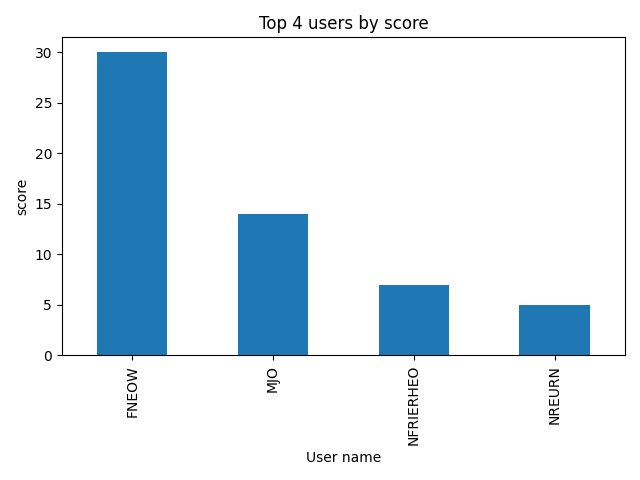
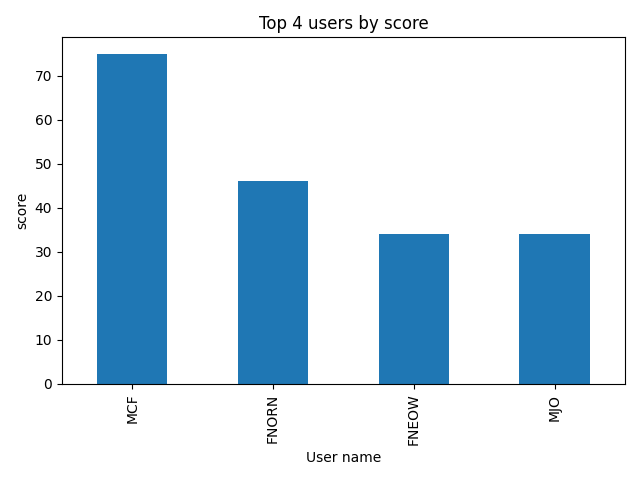
add automated tests, version 0.4.0 also make it so matplotlib gui doesn't show up when saving file fixed bug with num_top_users in display.py

diff --git a/tests/test.py b/tests/test.py
@@ -1,0 +1,167 @@
+'''
+run automated unit tests of turtlestats
+'''
+import time
+import os
+import sqlite3
+import unittest
+
+import pyautogui as pyag
+
+from turtlestats.display import best_score_bar, top_users_bar, FIRST_UNIX_DAY
+
+CODE_DIR = os.path.dirname(__file__)
+TEST_GAME_STARTER = os.path.join(CODE_DIR, "start_test_game.bat")
+STATS_DBNAME = os.path.join(CODE_DIR, '.turtlestats', 'stats.sqlite')
+
+def play_game(username: str, ups: int, downs: int, dist_per_up = 0.5) -> bool:
+    '''
+    Play a round of the turtlestats test game with the designated number
+    username, ups, downs, and dist_per_up.
+    Return True if a congratulations window showed up, otherwise false
+    '''
+    assert ups + downs == 20
+    os.startfile(TEST_GAME_STARTER)
+    # can't use subprocess.run or subprocess.Popen
+    # those block the calling thread until the process completes, so the
+    # pyautogui stuff won't run until the game is over
+    # wait for the window to open or bad things happen
+    wnds = []
+    while len(wnds) != 1:
+        time.sleep(0.5)
+        wnds = pyag.getWindowsWithTitle('User name')
+    wnds[0].activate()
+    for char in username:
+        pyag.keyDown(char)
+        pyag.keyUp(char)
+        time.sleep(0.0125)
+    pyag.keyDown('Enter')
+    time.sleep(0.125)
+    for char in str(dist_per_up):
+        pyag.keyDown(char)
+        pyag.keyUp(char)
+        time.sleep(0.0125)
+    pyag.keyDown('Enter')
+    time.sleep(0.125)
+    wnds = pyag.getWindowsWithTitle('Turtlestats test game')
+    if len(wnds) != 1:
+        raise FileNotFoundError("Should be exactly one window named 'Turtlestats test game'")
+    wnds[0].activate()
+    time.sleep(0.125)
+    num_wnds_before = len(pyag.getAllWindows())
+    # count how many windows there are before we play the game
+    for ii in range(ups):
+        pyag.keyDown('Up')
+        pyag.keyUp('Up')
+        time.sleep(0.0125)
+    for ii in range(downs):
+        pyag.keyDown('Down')
+        pyag.keyUp('Down')
+        time.sleep(0.0125)
+    # now wait in case the congratulations message shows up
+    time.sleep(0.25)
+    # check if there are more windows after the game
+    num_wnds_after = len(pyag.getAllWindows())
+    if num_wnds_after > num_wnds_before:
+        # if the message showed up, this will close the window
+        pyag.keyDown('Enter')
+    return num_wnds_after > num_wnds_before
+
+ARGS_TO_ENTER = [ # username, ups, downs, distance_per_up, should congratulate
+    ('mjo', 10, 10, 0.5, False),
+    ('fnron', 12, 8, -0.5, False), # not a high score, don't congratulate
+    ('mjo', 15, 5, 17, True), # highest score so far, so congrats!
+    ('bozar', 12, 8, -1, False),
+    ('bozar', 18, 2, 5, True), # highest score for bozar, but not overall
+    ('norgurno', 0, 20, 20, False),
+    ('anoru', 20, 0, -0.35, False),
+    ('c2c', 20, 0, 0, False),
+    ('mjo', 3, 17, -200, True), # new high score!
+]
+
+class Tester(unittest.TestCase):
+    def test_1_add_rows(self):
+        if os.path.exists(STATS_DBNAME):
+            os.unlink(STATS_DBNAME)
+        for args in ARGS_TO_ENTER:
+            with self.subTest():
+                congrats = play_game(*args[:-1])
+                should_congratulate = args[-1]
+                self.assertEqual(congrats, should_congratulate)
+
+    def test_2_review_db(self):
+        try:
+            with sqlite3.connect(STATS_DBNAME) as con:
+                con.row_factory = sqlite3.Row
+                rows = con.execute("SELECT * FROM stats").fetchall()
+        finally:
+            con.close()
+        for row, arg in zip(rows, ARGS_TO_ENTER):
+            user, ups, downs = arg[:3]
+            with self.subTest():
+                self.assertEqual(user, row['username'])
+            with self.subTest():
+                self.assertEqual(ups, row['ups'])
+            with self.subTest():
+                self.assertEqual(downs, row['downs'])
+
+    def test_3_top_users_bar_sql(self):
+        try:
+            with sqlite3.connect(STATS_DBNAME) as con:
+                con.row_factory = sqlite3.Row
+                rows = con.execute('''
+SELECT * FROM
+    (SELECT username, MAX(ups) mx 
+    FROM stats GROUP BY username)
+ORDER BY mx DESC
+LIMIT ?
+    ''',
+                    (5,)
+                ).fetchall()
+        finally:
+            con.close()
+        with self.subTest():
+            self.assertEqual(len(rows), 5)
+        # want top 5 users
+        with self.subTest():
+            self.assertEqual(rows[0]['mx'], 20)
+        with self.subTest():
+            self.assertEqual(rows[2]['username'], 'bozar')
+            # anoru and c2c are tied for most ups, bozar is 3rd
+    
+    def test_4_top_users_bar(self):
+        top_users_bar('downs', 5, CODE_DIR, os.path.join(CODE_DIR, 'top_users_bar.png'))
+        self.assertTrue(os.path.exists(os.path.join(CODE_DIR, 'top_users_bar.png')))
+
+    def test_5_trend_bar_sql(self):
+        try:
+            with sqlite3.connect(STATS_DBNAME) as con:
+                con.row_factory = sqlite3.Row
+                rows = con.execute('''
+SELECT date, mx FROM 
+    (SELECT date, MAX(distance) mx 
+    FROM stats GROUP BY date)
+WHERE date > ?
+ORDER BY date''',
+                    (FIRST_UNIX_DAY,)
+                ).fetchall()
+        finally:
+            con.close()
+        self.assertEqual(len(rows), 1)
+        # because all the rows were added the same day
+        # unless the tests started just before midnight
+        self.assertEqual(rows[0]['mx'], 2800)
+
+    def test_6_trend_bar(self):
+        best_score_bar('more_ups', FIRST_UNIX_DAY, CODE_DIR, os.path.join(CODE_DIR, 'more_ups_trend.png'))
+        self.assertTrue(os.path.exists(os.path.join(CODE_DIR, 'more_ups_trend.png')))
+
+    def test_7_teardown(self):
+        os.unlink(STATS_DBNAME)
+        os.rmdir(os.path.join(CODE_DIR, '.turtlestats'))
+        os.unlink(os.path.join(CODE_DIR, 'top_users_bar.png'))
+        os.unlink(os.path.join(CODE_DIR, 'more_ups_trend.png'))
+        
+
+if __name__ == '__main__':
+    unittest.main(verbosity=2)

diff --git a/tests/test_game.py b/tests/test_game.py
@@ -1,0 +1,57 @@
+'''
+a simple game where you press some combination of the up and down keys
+20 times.
+Decorated with display_stats_in_game, and run using pyautogui 
+in test.py.
+'''
+import turtle
+from turtle import Turtle
+
+from turtlestats.gameplay import display_stats_in_game
+
+class Scoreboard(Turtle):
+    def __init__(self, distance_per_up = 0.5):
+        super().__init__()
+        self.ups = 0
+        self.downs = 0
+        self.distance = 0.0
+        self.distance_per_up = distance_per_up
+        self.more_ups = False
+
+    def up(self):
+        self.ups += 1
+        self.distance += self.distance_per_up
+        if self.ups > self.downs:
+            self.more_ups = True
+        self.write_distance()
+
+    def down(self):
+        self.downs += 1
+        self.distance -= self.distance_per_up
+        if self.ups < self.downs:
+            self.more_ups = False
+        self.write_distance()
+
+    def write_distance(self):
+        self.clear()
+        self.write(f"Distance traveled: {self.distance}", font=("Comic Sans", 20, "bold"))
+
+
+sb = Scoreboard()
+sb.screen.title('Turtlestats test game')
+
+
+@display_stats_in_game(sb, {'more_ups': bool, 'ups': int, 'downs': int, 'distance': float}, 'distance')
+def main():
+    dist_per_up = sb.screen.numinput("Distance per up", "Enter the distance traveled per press of the up key, or Cancel to accept the default of 0.5")
+    sb.screen.listen()
+    if dist_per_up is None:
+        dist_per_up = 0.5
+    sb.distance_per_up = dist_per_up
+    turtle.onkeypress(sb.up, 'Up')
+    turtle.onkeypress(sb.down, 'Down')
+    while sb.ups + sb.downs < 20:
+        sb.screen.update()
+
+if __name__ == '__main__':
+    main()

diff --git a/display.py b/display.py
@@ -55,7 +55,8 @@ ORDER BY date''',
     plt.tight_layout()
     if img_name:
         plt.savefig(img_name)
-    plt.show()
+    else:
+        plt.show()
 
 
 def top_users_bar(stat: str, 
@@ -68,7 +69,9 @@ SELECT * FROM
     (SELECT username, MAX({stat}) mx 
     FROM stats GROUP BY username)
 ORDER BY mx DESC
-    '''
+LIMIT ?
+    ''',
+    (num_top_users,)
     )
     num_top_users = min(num_top_users, len(df))
     if num_top_users == 0:
@@ -81,7 +84,8 @@ ORDER BY mx DESC
     plt.tight_layout()
     if img_name:
         plt.savefig(img_name)
-    plt.show()
+    else:
+        plt.show()
 
 
 def turtle_plot_maker():
@@ -96,7 +100,7 @@ def turtle_plot_maker():
         if plot_type is None:
             return
         if plot_type != 'top_users' and plot_type != 'trend':
-            print(f"'{plot_type}'' is not a valid plot type")
+            print(f"'{plot_type}' is not a valid plot type")
         else:
             break
     code_dir = ''

diff --git a/CHANGELOG.md b/CHANGELOG.md
@@ -19,6 +19,20 @@ and this project adheres to [Semantic Versioning](http://semver.org/).
  
 - broken stuff
 
+## [0.4.0] - 2022-09-13
+
+### Added
+
+- Automated tests using [pyautogui](https://pyautogui.readthedocs.io/en/latest/roadmap.html?highlight=window#roadmap) to automatically play a simple test game and populate a database.
+
+### Changed
+
+- If you write the plot to file using `display`, the matplotlib gui viewer no longer opens.
+
+### Fixed
+
+- The top_users `display` option now correctly limits the number of top users.
+
 ## [0.3.0] - 2022-09-12
 
 ### Changed

diff --git a/README.md b/README.md
@@ -96,6 +96,7 @@ Dependencies
 
 - No dependencies outside the standard library for basic use.
 - To use the `turtlestats.display` module to make plots of scores, you need [pandas](https://pypi.org/project/pandas/) and [matplotlib](https://pypi.org/project/matplotlib/).
+- Running tests requires [pyautogui](https://pyautogui.readthedocs.io/en/latest/quickstart.html)
 
 Other stuff
 ------------
